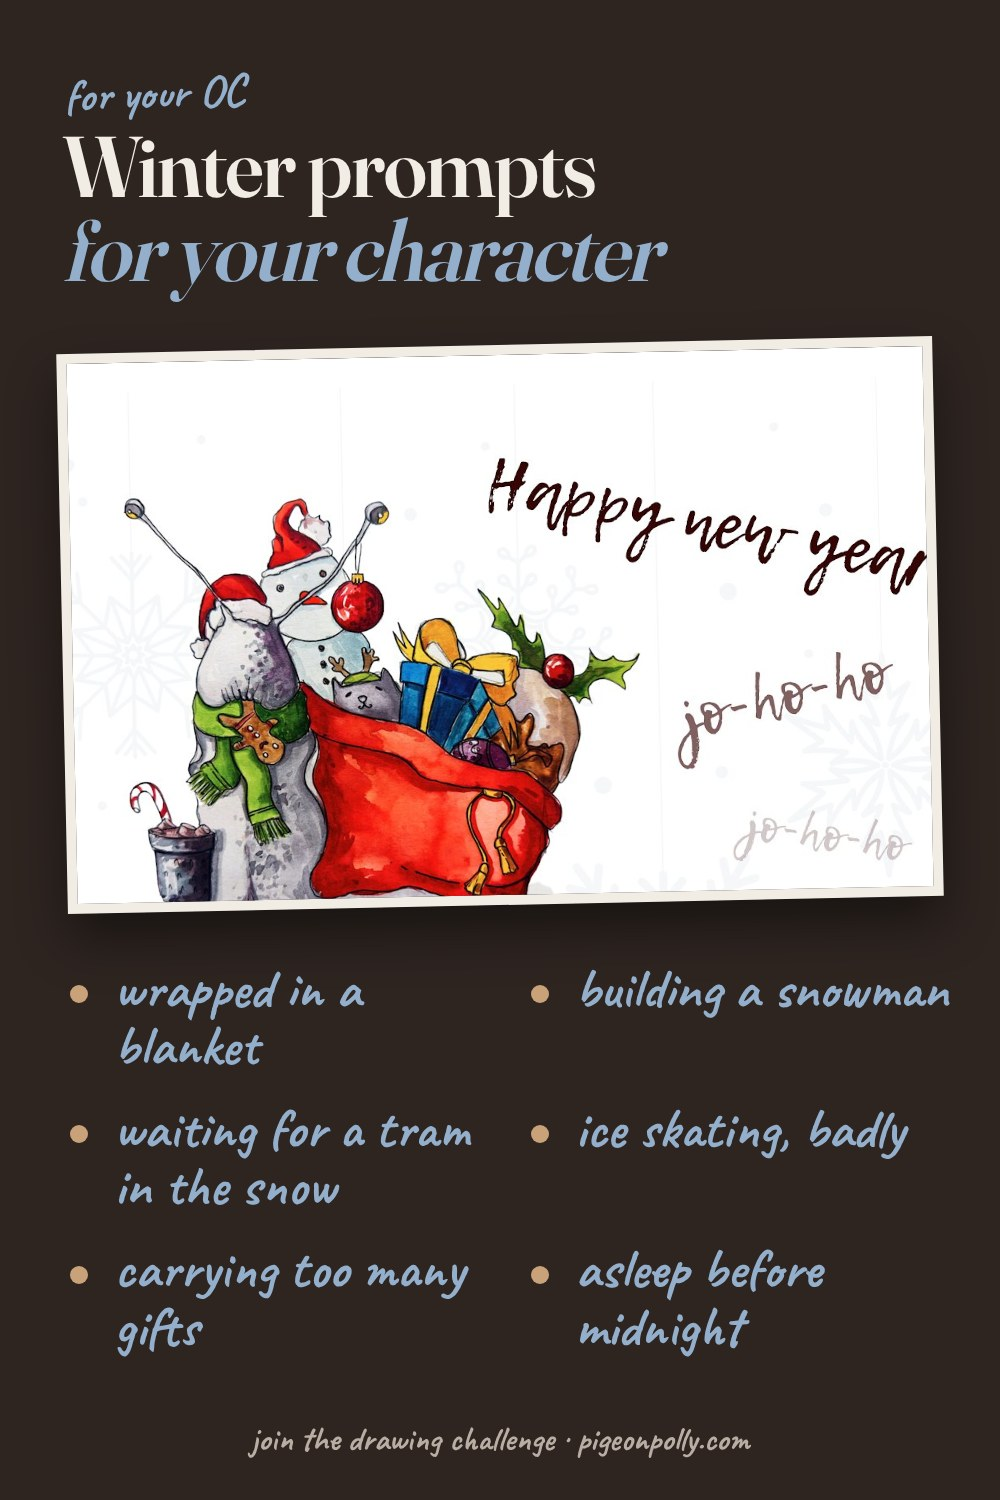
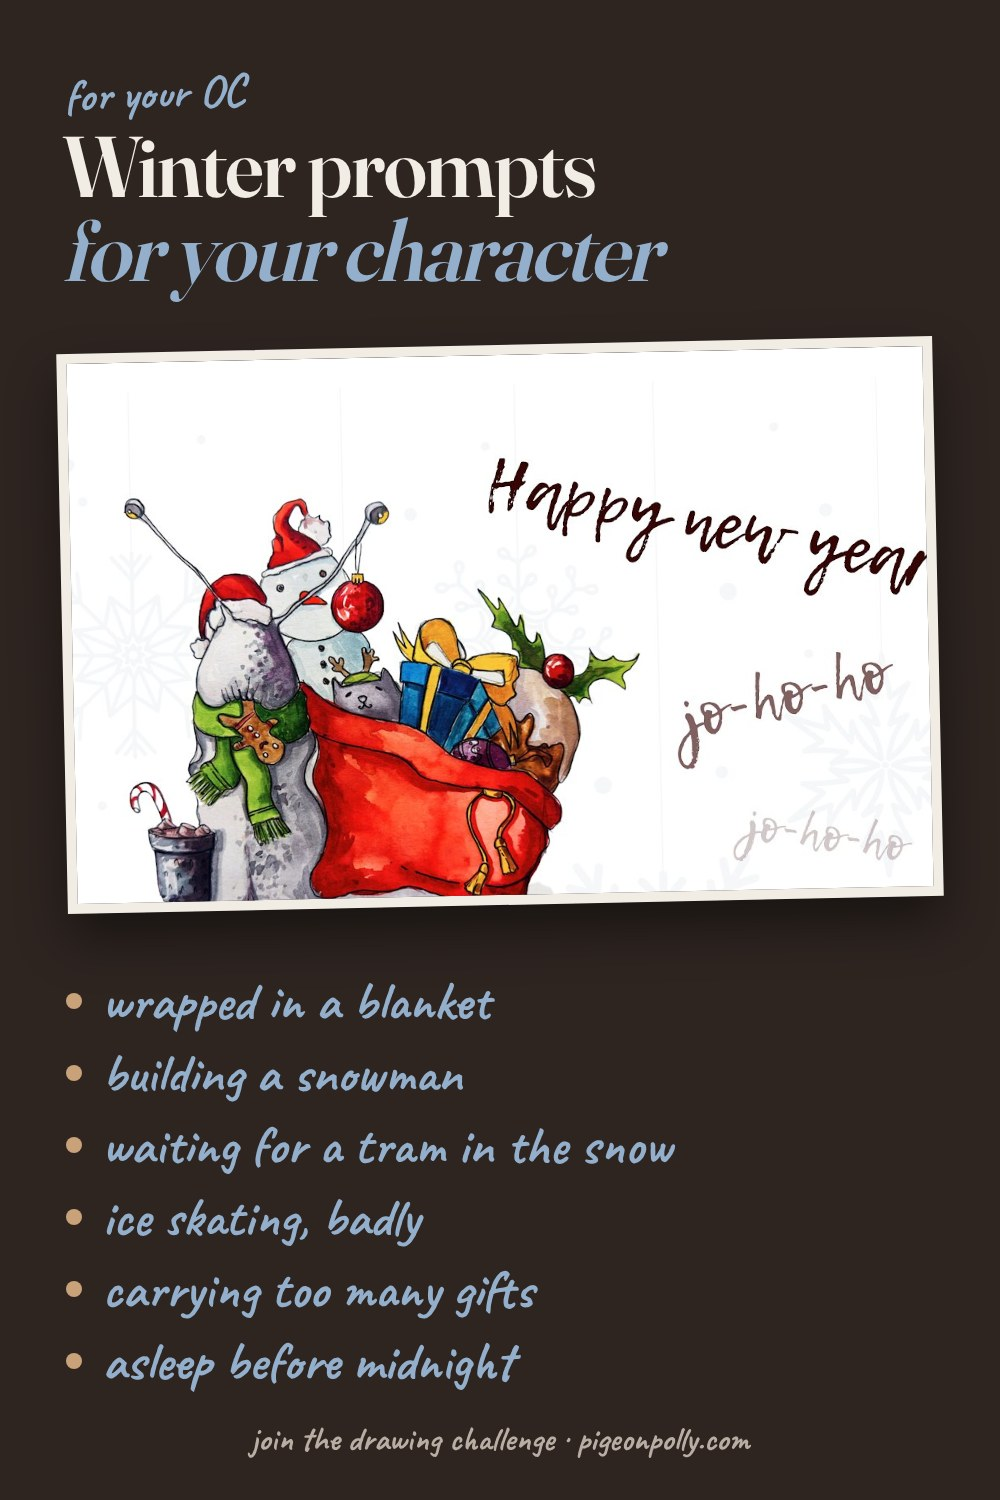
Пины 2.0: темы для рисования — ровные списки, кружочки
Claude-Session: https://claude.ai/code/session_015qZXG7BtQfFao2pDo9KSsK

diff --git a/tools/pins/pins5.js b/tools/pins/pins5.js
@@ -75,7 +75,7 @@ const T = {
     <div style="position:absolute;left:64px;top:64px;font:700 46px Caveat;color:#93AFCC;transform:rotate(-2deg)">${esc(p.kick)}</div>
     <h1 style="position:absolute;left:62px;right:50px;top:124px;font-size:86px;line-height:.98;color:#F1ECE4">${esc(p.t)}<br><em style="font-style:italic;font-weight:400;color:#93AFCC">${esc(p.t2)}</em></h1>
     <div style="position:absolute;left:62px;top:345px;border:10px solid #F1ECE4;transform:rotate(-1.2deg);box-shadow:0 26px 50px rgba(0,0,0,.45)">${crop(p.art, ...p.c, 856, p.items.length > 6 ? 470 : 540)}</div>
-    <div style="position:absolute;left:62px;right:50px;top:${p.items.length > 6 ? 870 : 960}px;display:grid;grid-template-columns:1fr 1fr;gap:${p.items.length > 6 ? 22 : 26}px 34px">${p.items.map(q => `<div style="font:700 ${p.items.length > 6 ? 54 : 56}px/1.02 Caveat;color:#93AFCC;padding-left:52px;position:relative"><span style="position:absolute;left:8px;top:.45em;width:18px;height:18px;border-radius:50%;background:#C9A27A"></span>${esc(q)}</div>`).join('')}</div>
+    <div style="position:absolute;left:62px;right:50px;top:${p.items.length > 6 ? 880 : 965}px;display:grid;grid-template-columns:${p.items.length > 6 ? '1fr 1fr' : '1fr'};grid-auto-rows:${p.items.length > 6 ? 84 : 72}px;column-gap:30px">${p.items.map(q => `<div style="font:700 ${p.items.length > 6 ? 48 : 54}px/1 Caveat;color:#93AFCC;padding-left:40px;position:relative;white-space:nowrap;display:flex;align-items:center"><span style="position:absolute;left:4px;top:50%;margin-top:-8px;width:16px;height:16px;border-radius:50%;background:#C9A27A"></span>${esc(q)}</div>`).join('')}</div>
     <div class="url" style="bottom:40px;color:#B9AEA4">${esc(p.foot)} · pigeonpolly.com</div>`,
   meme: p => `<div class="mt" style="position:absolute;left:60px;right:60px;top:80px">${esc(p.top)}</div>
     ${p.two ? p.two.map((q, i) => `<div class="shadow" style="position:absolute;left:60px;top:${240 + i * 560}px;border:10px solid #fff">${crop(q.art, ...q.c, 860, 480)}<span class="note" style="right:-20px;top:-26px;transform:rotate(${i ? 3 : -3}deg)">${esc(q.say)}</span></div>`).join('')
@@ -171,7 +171,7 @@ const PINS = [
     title: 'What to draw this November: 9 cozy ideas', desc: 'Stuck? Nine small, cozy things to draw or paint this November — from a mug of cocoa to a snowy rooftop. Get a new drawing theme every day on the site.',
     alt: 'Nine handwritten paper notes with November drawing ideas under a watercolor of winter rooftops.', topics: 'November drawing ideas, drawing prompts, what to draw, sketchbook prompts' },
   { n: 283, tpl: 'prompts', type: 'Темы', kick: 'December sketchbook', t: 'What to draw', t2: 'in December', art: 'sbNY', c: [0, 0.12, 1], foot: 'a new theme every day',
-    items: ['a garland', 'a bowl of tangerines', 'gift wrap', 'a tree ornament', 'the calendar page “31”', 'a sparkler', 'a festive salad', 'a pine cone', 'a snow globe'], link: L('/challenge/'),
+    items: ['a garland', 'a bowl of tangerines', 'gift wrap', 'a tree ornament', 'the “31” calendar page', 'a sparkler', 'a festive salad', 'a pine cone', 'a snow globe'], link: L('/challenge/'),
     title: 'What to draw in December: 9 festive ideas', desc: 'Garlands, tangerines, sparklers and the calendar page that says 31 — nine December drawing ideas for your sketchbook. New theme every day on the site.',
     alt: 'Nine handwritten paper notes with December drawing ideas under a photo of a sketchbook page with a New Year table.', topics: 'December drawing ideas, Christmas drawing prompts, advent sketchbook' },
   { n: 284, tpl: 'prompts', type: 'Темы', kick: 'counting down to midnight', t: 'Draw your', t2: 'New Year’s Eve', art: 'ny22', c: [0.01, 0, 0.96], foot: 'join the drawing challenge',
